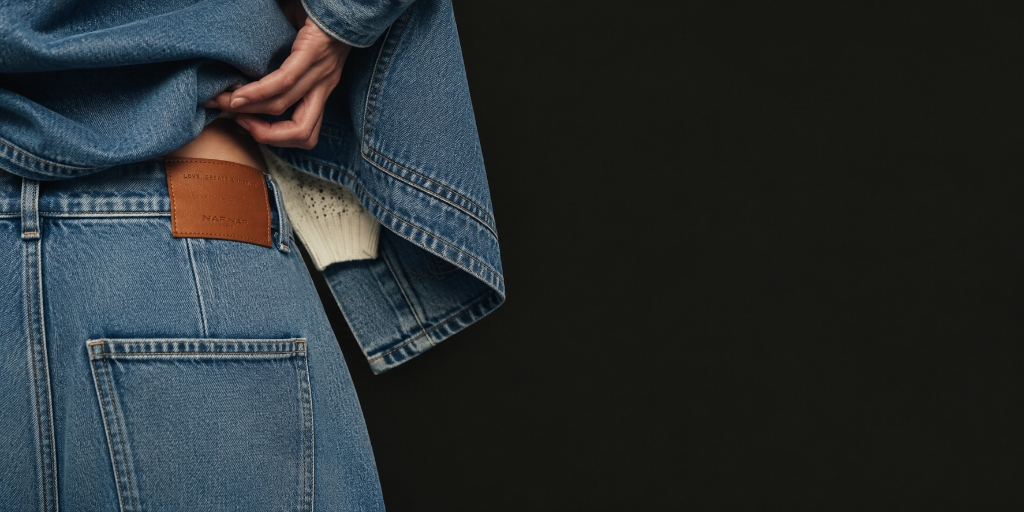
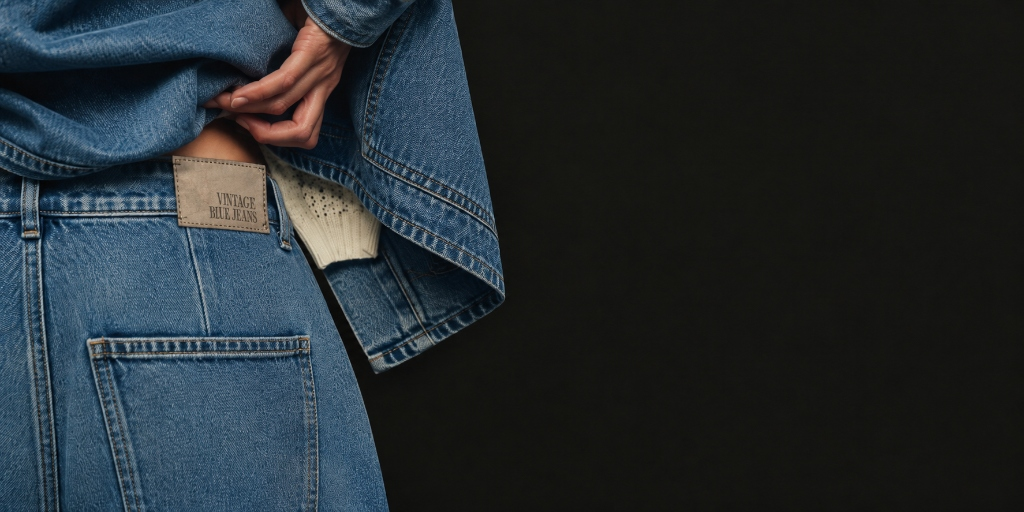
Update The Family section image to Vintage Blue Jeans and fix Discuss A Requirement button text wrap

Changed region(s): [[0.0, 0.0, 0.5, 1.0], [0.0938, 0.0, 0.2812, 0.125], [0.3125, 0.0, 0.375, 0.0625]]

diff --git a/about.html b/about.html
@@ -356,10 +356,11 @@
     .blue-btn {
       display: inline-flex;
       align-items: center;
-      justify-content: flex-start;
-      padding-left: 15px;
-      max-width: 225px;
-      width: 100%;
+      justify-content: space-between;
+      gap: 16px;
+      padding: 0 16px;
+      width: fit-content;
+      max-width: 100%;
       min-height: 51px;
       height: auto;
       border: 0.5px solid #D3D1C8;
@@ -370,13 +371,14 @@
       font-size: 15px;
       line-height: 25px;
       letter-spacing: 0px;
+      white-space: nowrap;
       margin-top: auto;
       transition: all 0.3s ease;
       box-sizing: border-box;
     }
     .blue-btn span {
       margin-left: auto;
-      padding-right: 15px;
+      padding-right: 0;
     }
 
     /* RESPONSIVE FOR NEW SECTION */
@@ -1232,7 +1234,7 @@
   <!-- ===== THE FAMILY SECTION ===== -->
   <section class="family-section">
     <div class="family-image">
-      <img src="family-denim.jpg" alt="Denim garment details">
+      <img src="family-denim-vintage-blue.jpg?v=1" alt="Denim garment details">
     </div>
 
     <div class="family-content">
